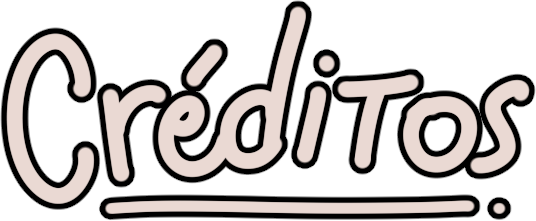
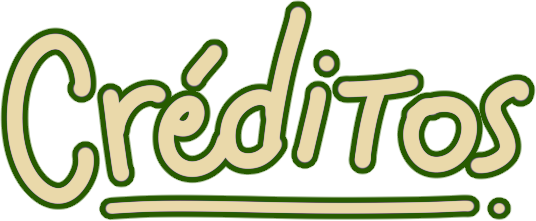
jogo (quase) completo

diff --git a/src/index.html b/src/index.html
@@ -15,8 +15,11 @@
         <audio><source src="assets\hover.mp3" type="audio/mpeg"></audio>
         <a href=""><img src="D:\Users\Anna\Desktop\ANÁLISE E DESENVOLVIMENTO DE SISTEMAS\Unifor\S2\Interação Humano-Computador\jogo\assets\logo.png" id="logo"></a>
         <div id="container">
-            <p><button onclick="iniciarJogo()" id="jogar">JOGAR</button></p>
-            <p><button onclick="mostrarCreditos()" id="creditos"><img src="D:\Users\Anna\Desktop\ANÁLISE E DESENVOLVIMENTO DE SISTEMAS\Unifor\S2\Interação Humano-Computador\jogo\assets\creditos.png"></button></p>
+            <div id="telainicial">
+                <p><button onclick="tela1()" id="jogar"><img src="D:\Users\Anna\Desktop\ANÁLISE E DESENVOLVIMENTO DE SISTEMAS\Unifor\S2\Interação Humano-Computador\jogo\assets\jogar.png"></button></p>
+                <p><button onclick="mostrarCreditos()" id="creditos"><img src="D:\Users\Anna\Desktop\ANÁLISE E DESENVOLVIMENTO DE SISTEMAS\Unifor\S2\Interação Humano-Computador\jogo\assets\creditos.png"></button></p>
+                <p id="disclaimer">(Este jogo é melhor visualizado na resolução 1920 x 1080)</p>
+            </div>
             <div id="jogo" style="display: none">
                 <img src="D:\Users\Anna\Desktop\ANÁLISE E DESENVOLVIMENTO DE SISTEMAS\Unifor\S2\Interação Humano-Computador\jogo\assets\fundo.png" id="fundo">
                 <img src="D:\Users\Anna\Desktop\ANÁLISE E DESENVOLVIMENTO DE SISTEMAS\Unifor\S2\Interação Humano-Computador\jogo\assets\vasos.png" id="vasos" class="item" onclick="mostrarMensagem('msgVasos')">
@@ -24,28 +27,41 @@
                 <img src="D:\Users\Anna\Desktop\ANÁLISE E DESENVOLVIMENTO DE SISTEMAS\Unifor\S2\Interação Humano-Computador\jogo\assets\caixa.png" id="caixa" class="item" onclick="mostrarMensagem('msgCaixa')">
                 <img src="D:\Users\Anna\Desktop\ANÁLISE E DESENVOLVIMENTO DE SISTEMAS\Unifor\S2\Interação Humano-Computador\jogo\assets\lixo.png" id="lixo" class="item" onclick="mostrarMensagem('msgLixo')">
                 <img src="D:\Users\Anna\Desktop\ANÁLISE E DESENVOLVIMENTO DE SISTEMAS\Unifor\S2\Interação Humano-Computador\jogo\assets\cacos.png" id="cacos" class="item" onclick="mostrarMensagem('msgCacos')">
+                <p><button onclick="retornar()">VOLTAR</button></p>
             </div>
-            <div id="containerCreditos" style="display: none">
-                <p><span class="titulos">O JOGO:</span></p>
-                <p>Este jogo foi desenvolvido como atividade final da disciplina de Interação Humano-Computador, ministrada pelo professor Daniel Almeida Chagas.
-                    <br>(Universidade de Fortaleza, 2024.1)
-                    <br>Ele conta com ilustrações originais criadas exclusivamente para este propósito e foi desenvolvido em HTML, CSS e JavaScript.</p>
+            <div id="tela1" style="display: none">
+                <p><span class="titulos">Olá!</span><br>Antes de começarmos, pode nos dizer seu primeiro nome?</p>
+                <form>
+                    <p><input type="text" name="nome" id="nome"></p>
+                </form>
+                <p><button onclick="tela2()"><img src="D:\Users\Anna\Desktop\ANÁLISE E DESENVOLVIMENTO DE SISTEMAS\Unifor\S2\Interação Humano-Computador\jogo\assets\arrow-circle-right.svg"></button></p>
+            </div>
+            <div id="tela2" style="display: none">
+                <p>Prazer em te conhecer, <span id="nomeusuario"></span>!</p>
+                <p>Esse jogo tem o objetivo de te ensinar um pouco sobre prevenção contra o Aedes aegypti, mosquito transmissor de doenças como dengue, chikungunya e zika.</p>
+                <p>Você poderá explorar o quintal de uma casa comum, interagir com os objetos e descobrir as medidas adequadas para evitar que o mosquito se prolifere.</p>
+                <p>Então, vamos nessa? :)</p>
+                <p><button onclick="iniciarJogo()"><img src="D:\Users\Anna\Desktop\ANÁLISE E DESENVOLVIMENTO DE SISTEMAS\Unifor\S2\Interação Humano-Computador\jogo\assets\arrow-circle-right.svg"></button></p>
+            </div>
+            <div id="containercreditos" style="display: none">
+                <p><span class="titulos">DESENVOLVIMENTO:</span>
+                <br>Este jogo foi elaborado como AV3 da disciplina de Interação Humano-Computador, ministrada pelo professor Daniel Almeida Chagas, no semestre 2024.1 (UNIFOR).
+                    <br>Ele conta com ilustrações exclusivas elaboradas para este propósito e foi desenvolvido em HTML, CSS e JavaScript.
+                    <br>Foram utilizados os sons <a href="https://pixabay.com/sound-effects/ui-correct-button2-103167/">UI_correct_button2</a> e <a href="https://pixabay.com/sound-effects/clickselect2-92097/">clickselect2</a> (Pixabay).</p>
                 <p><span class="titulos">EQUIPE:</span>
                 <br>Anna Correia, Lais Barbosa, Letícia Lucena e Raul Holanda</p>
                 <p><span class="titulos">EXTRAS:</span>
-                    <br>Agora que você aprendeu um pouco sobre a prevenção contra o Aedes aegypti, adskadjladsm</p>
-                    <div id="botoes">
+                    <br>Agora que você aprendeu um pouco sobre a prevenção contra o Aedes aegypti, confira estes links!</p>
+                    <div id="links">
                         <a href="https://www.unifor.br" target="_blank">Universidade de Fortaleza</a> ✶ <a href="https://brasil.un.org/pt-br/sdgs" target="_blank">Objetivos do Desenvolvimento Sustentável</a> ✶ <a href="https://www.gov.br/saude/pt-br/assuntos/saude-de-a-a-z/d/dengue" target="_blank">Dengue (Ministério da Saúde)</a>
                     </div>
-                <p><a href=""><button>VOLTAR</button></a></p>
+                    <p><button onclick="retornar()"><img src="D:\Users\Anna\Desktop\ANÁLISE E DESENVOLVIMENTO DE SISTEMAS\Unifor\S2\Interação Humano-Computador\jogo\assets\arrow-circle-left.svg"></button></p>
                 <a href="https://youtu.be/SG5QwGaZKBI" target="_blank"><img src="D:\Users\Anna\Desktop\ANÁLISE E DESENVOLVIMENTO DE SISTEMAS\Unifor\S2\Interação Humano-Computador\jogo\assets\aedes.png" id="aedes" onclick="aedes()"></a>
             </div>
-            <div id="teste" style="display: none">
+            <div id="texto" style="display: none">
                 <p id="msg"></p>
                 <button onclick="ocultarMensagem()" id="voltar">VOLTAR</button>
             </div>
         </div>
     </body>
 </html>
-
-div pra inserir o nome, chama a função e abre dizendo oi [nome da pessoa] quer aprender mais sobre a dengue? explore essa casa para entender mais

diff --git a/src/style.css b/src/style.css
@@ -6,19 +6,31 @@
 }
 
 body {
-    background-color: #ad547e;
+    background-color: #93AD55;
 }
 
+a {
+    text-decoration: none;
+    font-size: 1.1rem;
+    transition: 0.2s all;
+    color: #ad547e;
+}
+
+a:hover {
+    color: #98A343;
+    transition: 0.2s all;
+    text-decoration: underline;
+}
 
 #logo {
     display: block;
     margin: 1.4rem auto 1.8rem auto;
     width: 240px;
-    filter: brightness(120%) drop-shadow(4px 4px 2px rgba(74, 47, 7, 0.8));
+    filter: brightness(120%) drop-shadow(4px 4px 2px rgba(86, 94, 25, 0.8));
 }
 
 #container {
-    background-color: antiquewhite;
+    background-color: #E9E0DC;
     width: 80vw;
     height: 70vh;
     border-radius: 40px;
@@ -90,7 +102,26 @@ body {
     z-index: -1;
 }
 
-#teste {
+#jogo button {
+    position: relative;
+    z-index: 1;
+    top: -615px;
+    right: -502px;
+    font-size: 1.4rem;
+    background: transparent;
+    border: 0;
+    color: #EAD9D3;
+    font-weight: 400;
+    cursor: pointer;
+    transition: 0.2s all;
+}
+
+#jogo button:hover {
+    filter: drop-shadow(4px 4px 2px rgba(74, 47, 7, 0.5));
+    transition: 0.2s all;
+}
+
+#texto {
     position: relative;
     top: -500px;
     background-color: rgba(41, 30, 27, 0.65);
@@ -103,10 +134,11 @@ body {
     font-size: 2rem;
 }
 
-#teste > p {
+#texto > p {
     margin: 0 auto;
     padding-top: 2rem;
     padding-bottom: 2rem;
+    max-width: 70%;
 }
 
 @keyframes fadein {
@@ -120,12 +152,12 @@ body {
 }
 
 #voltar {
-    background-color: #ad547e;
-    width: 5rem;
+    background-color: #93AD55;
+    width: 8rem;
     height: 3rem;
     font-weight: 600;
     font-size: 1.6rem;
-    color:antiquewhite;
+    color:#4a2f07;
     border-radius: 32px;
     border: 0;
     cursor: pointer;
@@ -138,21 +170,32 @@ body {
 
 #jogar {
     background-color: #ad547e;
-    margin-top: 10rem;
+    margin-top: 8rem;
 }
 
-#creditos {
+#creditos, #jogar {
     width: 60%;
-    margin-top: 2rem;
     background-color: transparent;
+    transition: 0.2s all;
 }
 
 #creditos img {
     width: 400px;
 }
 
+#jogar img {
+    width: 350px;
+    margin-top: -1rem;
+}
+
+#creditos:hover, #jogar:hover {
+    filter: brightness(105%) drop-shadow(4px 4px 2px rgba(74, 47, 7, 0.5));
+    transition: 0.2s all;
+}
+
+
 #aedes {
-    width: 320px;
+    width: 240px;
     animation: sobe 3s infinite;
     transition: 0.5s ease-in-out;
 }
@@ -168,11 +211,16 @@ body {
     100% {transform: translateY(0);}
 }
 
-#containerCreditos p {
-    font-size: 1.2rem;
+#containercreditos {
+    max-width: 70%;
+    margin: 0 auto;
 }
 
-#containerCreditos p:first-of-type {
+#containercreditos p {
+    font-size: 1.1rem;
+}
+
+#containercreditos p:first-of-type {
     padding-top: 2rem;
 }
 
@@ -180,7 +228,68 @@ body {
     font-weight: 600;
 }
 
-#botoes p {
+#links p {
     display: inline;
     align-content: space-between;
+}
+
+#disclaimer {
+    font-size: 1.2rem;
+    font-weight: 300;
+    margin-top: 2.4rem;
+}
+
+#tela1 {
+    padding-top: 8rem;
+}
+
+#tela1 p:first-of-type {
+    margin-top: 2rem;
+    font-size: 2rem;
+}
+
+#tela1 input[type="text"] {
+    width: 20rem;
+    height: 4rem;
+    font-size: 2rem;
+    font-weight: 400;
+    text-align: center;
+    background-color: #BABD87;
+    color:#4a2f07;
+    border-radius: 4px;
+    border: 0;
+    transition: 0.2s all;
+}
+
+#tela1 input[type="text"]:focus {
+    transition: 0.2s all;
+    border-color: #4a2f07;
+}
+
+#tela1 button, #tela2 button, #containercreditos button {
+    border: 0;
+    color: #ad547e;
+    background-color: transparent;
+    font-size: 2.4rem;
+    padding: 1rem;
+    transition: 0.2s all;
+    cursor: pointer;
+    font-weight: 400;
+}
+
+#tela1 button:hover, #tela2 button:hover, #containercreditos button:hover {
+    filter: brightness(120%) drop-shadow(2px 2px 2px rgba(74, 47, 7, 0.5));
+    transition: 0.2s all;
+}
+
+#tela1 button img, #tela2 button img, #containercreditos button img {
+    width: 60px;
+    cursor: pointer;
+}
+
+#tela2 {
+    max-width: 70%;
+    margin: 0 auto;
+    font-size: 2rem;
+    padding-top: 4rem;
 }

diff --git a/src/script.js b/src/script.js
@@ -1,3 +1,46 @@
+function tela1() {
+    somPlay();
+    document.getElementById("telainicial").style.display = "none";
+    document.getElementById("tela1").style.display = "block";
+    document.getElementById("tela1").style.animation = "fadein 0.3s";
+}
+
+
+function tela2() {
+    somPlay();
+    pushNome();
+    document.getElementById("tela1").style.display = "none";
+    document.getElementById("tela2").style.display = "block";
+    document.getElementById("tela2").style.animation = "fadein 0.3s";
+}
+
+function iniciarJogo() {
+    somPlay();
+    document.getElementById("tela2").style.display = "none";
+    document.getElementById("jogo").style.display = "block";
+    document.getElementById("jogo").style.animation = "fadein 0.3s";
+}
+
+function pushNome(nome) {
+    var nome = (document.getElementsByName("nome")[0].value);
+    if (nome === "") {
+        document.getElementById("nomeusuario").innerText = "Usuário";
+    } else {
+        var capitalizado = nome.substring(0, 1).toUpperCase() + nome.substring(1).toLowerCase();
+        document.getElementById("nomeusuario").innerText = capitalizado;
+    }
+}
+
+function somPlay() {
+    var play = new Audio('../assets/play.mp3');
+    play.play();
+}
+
+function somClique() {
+    var clique = new Audio('../assets/clique.mp3');
+    clique.play();
+}
+
 function mostrarMensagem(texto) {
     let mensagem;
     switch (texto) {
@@ -17,18 +60,18 @@ function mostrarMensagem(texto) {
             mensagem = "Garrafas vazias e destampadas devem ser guardadas de cabeça para baixo!";
             break;
     }
-    const divTeste = document.getElementById("teste");
-    divTeste.style.display = "block";
-    divTeste.style.animation = "none";
-    divTeste.offsetHeight;
-    divTeste.style.animation = "fadein 0.5s";
+    const divTexto = document.getElementById("texto");
+    divTexto.style.display = "block";
+    divTexto.style.animation = "none";
+    divTexto.offsetHeight;
+    divTexto.style.animation = "fadein 0.5s";
     document.getElementById("msg").innerText = mensagem;
     somClique();
 }
 
 function ocultarMensagem() {
-    const divTeste = document.getElementById("teste");
-    divTeste.style.animation = "fadeout 0.5s";
+    const divTeste = document.getElementById("texto");
+    divTeste.style.animation = "fadeout 0.3s";
     divTeste.addEventListener('animationend', function checar() {
         divTeste.style.display = "none";
         divTeste.style.animation = "none";
@@ -36,24 +79,23 @@ function ocultarMensagem() {
     });
 }
 
-function iniciarJogo() {
-    document.getElementById("jogar").style.display = "none";
-    document.getElementById("creditos").style.display = "none";
-    document.getElementById("jogo").style.display = "block";   
+function mostrarCreditos() {
+    somPlay();
+    document.getElementById("telainicial").style.display = "none";
+    document.getElementById("containercreditos").style.display = "block";
+    document.getElementById("containercreditos").style.animation = "fadein 0.3s";
 }
 
-function mostrarCreditos() {
-    document.getElementById("jogar").style.display = "none";
-    document.getElementById("creditos").style.display = "none";
-    document.getElementById("containerCreditos").style.display = "block";
+function retornar() {
+    somPlay();
+    document.getElementById("jogo").style.display = "none";
+    document.getElementById("containercreditos").style.display = "none";
+    document.getElementById("telainicial").style.display = "block";
+    document.getElementById("telainicial").style.animation = "fadein 0.3s";
+    location.reload();
 }
 
 function aedes() {
     document.getElementById("aedes").src = "D:\\Users\\Anna\\Desktop\\ANÁLISE E DESENVOLVIMENTO DE SISTEMAS\\Unifor\\S2\\Interação Humano-Computador\\jogo\\assets\\rip.png";
-    document.getElementById("aedes").style.width = "120px";
-}
-
-function somClique() {
-    var clique = new Audio('../assets/clique.mp3');
-    clique.play();
+    document.getElementById("aedes").style.width = "110px";
 }
